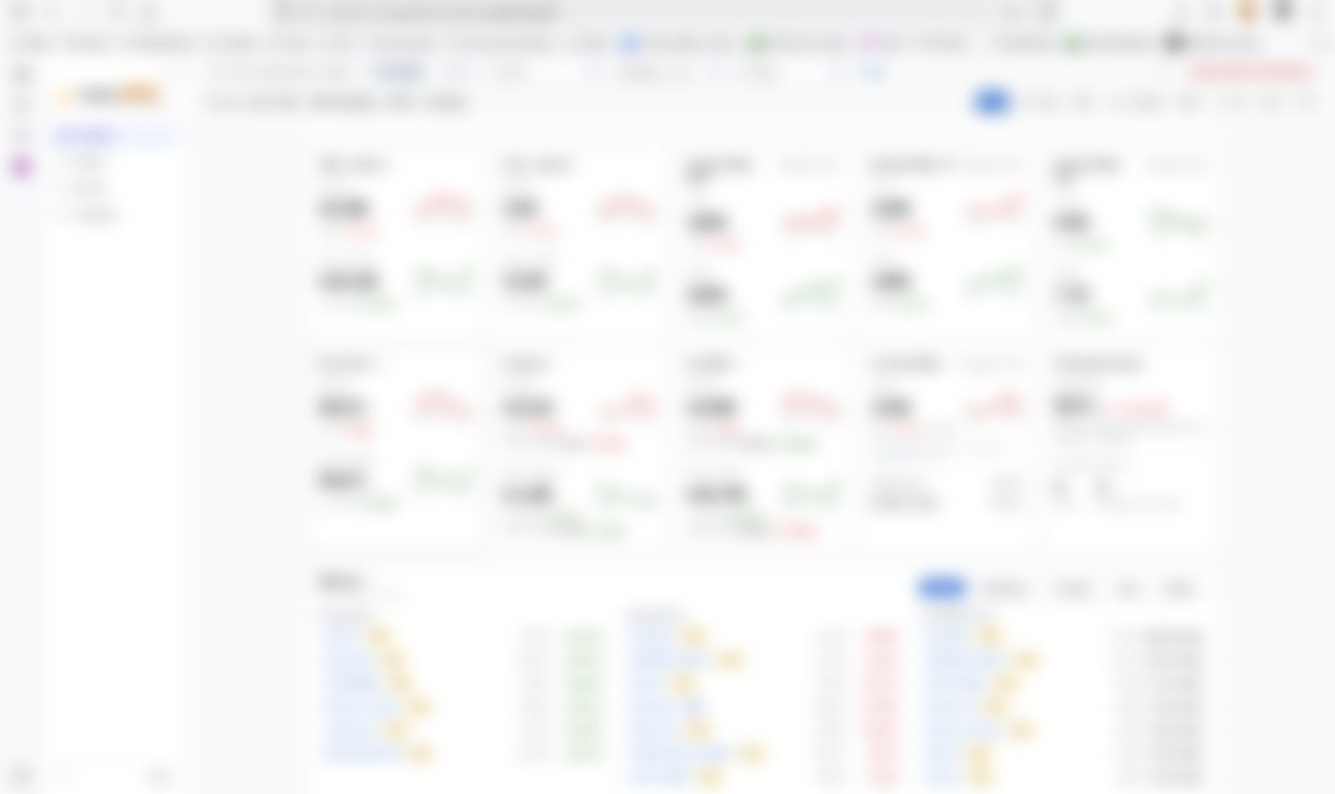
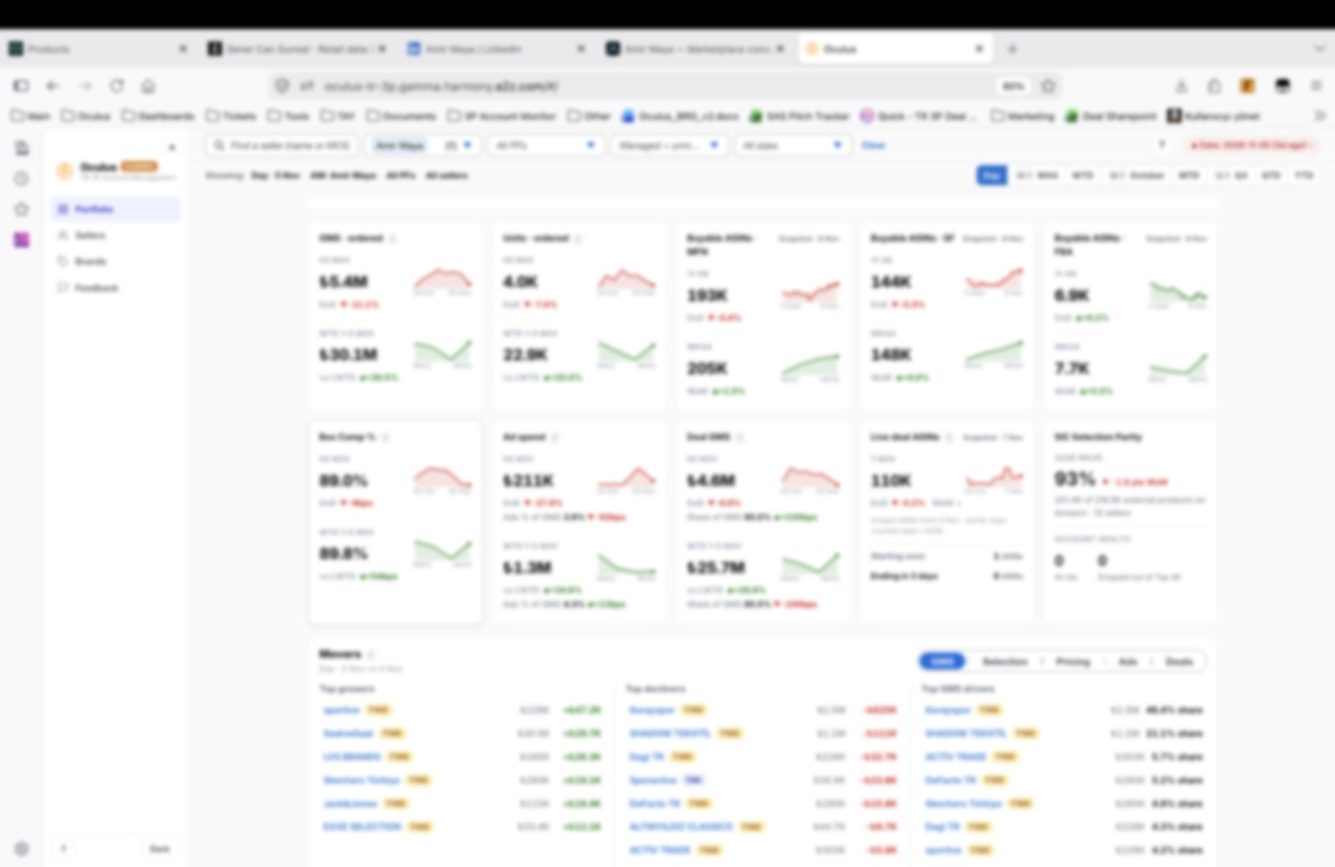
text pass per Amir (Amazon chapter, Günaydın, deleter, education, contact, Hype-Merch 80K, headlines); tool cards with bullets + lighter blur + real Oculus/Parity marks; TRNotify recentred; mobile: no label collisions, key list, compact HUD, smaller type

diff --git a/content.js b/content.js
@@ -2,11 +2,11 @@
 window.CONTENT = {
   en: {
     education: [
-      { id: "hisar", years: "2014", logo: "tiles/hisar.png", name: "Hisar School", kicker: "High school · Istanbul",
-        lead: "Turkish–Mathematics track. Where the habit of taking things apart started.",
+      { id: "hisar", years: "2011 – 2014", logo: "tiles/hisar.png", name: "Hisar School", kicker: "High school · Istanbul",
+        lead: "",
         body: [] },
       { id: "bilgi", years: "2014 – 2019", logo: "tiles/bilgi.png", name: "Istanbul Bilgi University", kicker: "B.A. Economics (English) · 50% ÖSYM scholarship",
-        lead: "Economics taught me to read incentives. The internships taught me how companies actually move goods and money.",
+        lead: "",
         body: [],
         internships: [
           { logo: "tiles/yunsa.png", name: "Yünsa", role: "Finance Intern", when: "Jan – Feb 2015", d: "Credit flows, invoice-to-receipt matching, daily industry monitoring." },
@@ -31,14 +31,14 @@ window.CONTENT = {
           skills: [["Account management", "Strategic accounts, joint business plans, QBRs, C-level relationships, negotiation"], ["Growth", "Selection, advertising, fulfilment, pricing and campaign levers; onboarding motion"], ["Product & tooling", "Dashboards, automation, AI assistants; from idea to adoption by the whole team"], ["Data", "SQL, Python, AWS; analytics that change what the team does on Monday"]],
           interests: ["Tech & digital ecosystems","Financial markets & crypto","Competitive team sports","Sneakers & streetwear"],
           glance: [["8 / 10","top Softlines sellers managed"],["70+","sellers managed so far"],["147K+","competitor sellers mapped"],["200M+ TRY","Hype-Merch GMV"]] },
-    headlines: ["There's always a better way to do things.", "Account manager at Amazon who also builds the tools his team uses.", "Built Hype Merch from zero: 200M+ TRY GMV, 40K+ sales, 55K users.", "Now at Amazon, growing strategic sellers in 3P Softlines.", "Product thinking, execution, and work that moves the needle."],
+    headlines: ["Marketplace Consultant at Amazon. Builder by habit.", "I grow sellers, and build the tools that make the team faster."],
     duty_facts: [["Now", "Strategic Account Services, Amazon Turkey 3P · Softlines"], ["Focus", "Strategic accounts · seller growth · internal tooling"], ["Speaks", "Turkish (native) · English (native) · Hebrew (intermediate) · Spanish (beginner)"], ["Base", "Istanbul"]],
-    ui: { story: "Story", facts: "Profile", role_short: "Marketplace Consultant · Amazon TR 3P", eyebrow: "My career, laid out as a route", cta_story: "Walk the route", cv: "Resume (PDF)", duty: "Right now", live: "Available",
+    ui: { story: "Story", facts: "Profile", role_short: "Marketplace Consultant · Amazon TR 3P", eyebrow: "00 · Start here", cta_story: "Walk the route", cv: "Resume (PDF)", duty: "Right now", live: "Available",
           route_eyebrow: "00 · Route", g_all: "Everything", g_l0: "Education", g_l1: "Career", g_l2: "Tools & products", g_l3: "Proof", g_verify: "Verify", g_read: "Read the chapter", g_hint: "Click a stop to open what came out of it.", g_desktop: "Desktop tools", g_bots: "Discord bots", door: "Visitor count", door_today: "today", door_now: "online now", door_avg: "avg. visit", door_note: "Anonymous · no cookies", s1_eyebrow: "01 · Story · Stop by stop", s1_title: "Stop by stop.", s1_intro: "Each stop is its own chapter: what I did there, what it taught me, and what I built because of it.",
           s3_eyebrow: "03 · Profile · Details", s3_title: "The details.", education: "Education", skills: "What I do", s2_eyebrow: "02 · Education", s4_eyebrow: "04 · Contact · Register", work: "Work", contact: "Contact", scroll: "Scroll", hover: "Hover a stop. Scroll to read it in order.",
           intro: "Twelve years, seven stops. Each one taught me the next.", role: "Seller growth · marketplace tooling",
           press: "In the press", awards: "Recognition", apps: "App Store", tools: "Built here", internships: "Internships along the way",
-          contact_title: "Open to good problems.", contact_sub: "Everything on this page is on the resume; everything on the resume has proof behind it.",
+          contact_title: "Open to solving good problems.", contact_sub: "Everything on this page is on the resume; everything on the resume has proof behind it.",
           email: "Email", linkedin: "LinkedIn", cv: "Resume (PDF)", footer: "Hand-built: HTML, CSS, JS. No frameworks. Istanbul.",
           blur_note: "Internal Amazon tooling — intentionally blurred.", langs: "Languages", certs: "Certificates · click to verify", interests: "Interests", facts: "Also", glance: "At a glance", chapter: "Chapter" },
     stops: [
@@ -65,41 +65,41 @@ window.CONTENT = {
                "It was the first time code paid rent. It also showed me the real gap: there was no proper place in Turkey to trade what these people were buying. TRNotify kept running next to the marketplace it spawned, until I left both for Amazon in 2024."] },
       { id: "hypemerch", years: "2020 – 2024", logo: "tiles/hypemerch.png", name: "Hype-Merch", kicker: "Co-founder · Product Owner · Turkey's first sneaker marketplace",
         lead: "A sneaker and streetwear marketplace, inspired by StockX and GOAT, built from zero to 200M+ TRY GMV, 40K+ sales and 55K users with three partners.",
-        stats: [["200M+ TRY", "GMV"], ["40K+", "sales"], ["55K", "users"], ["8,000+", "listings on launch day"], ["Top 100", "App Store Shopping"]],
-        body: ["The idea came straight out of TRNotify: the people buying through my monitors needed somewhere to sell, and I could be the middleman. Because the seller base already existed, the flywheel started on day one. The site launched with more than 8,000 listings.",
+        stats: [["200M+ TRY", "GMV"], ["40K+", "sales"], ["55K", "users"], ["8K → 80K+", "listings, launch to peak"], ["Top 100", "App Store Shopping"]],
+        body: ["The idea came straight out of TRNotify: the people buying through my monitors needed somewhere to sell, and I could be the middleman. Because the seller base already existed, the flywheel started on day one. The site launched with more than 8,000 listings and grew past 80,000.",
                "Over four years I touched every part of an e-commerce business, mostly for the first time: payment systems, seller disbursements, shipping operations, authenticity checks, UX and UI, the mobile app launch, budgeting, social media and advertising, legal, influencer campaigns. This is where I learned the fundamentals of e-commerce, by having to.",
-               "The mobile app launched on 10 September 2023 and held Top 100–200 in App Store Shopping through 2023–24. Looking back from inside Amazon, I keep finding systems I designed with zero prior knowledge that are close cousins of the ones Amazon runs at scale.",
+               "The mobile app launched on 10 September 2023 and held Top 100–200 in App Store Shopping through 2023–24. From inside Amazon today, I can see how many of the systems I designed back then, with no prior knowledge, closely resemble the ones Amazon runs at scale.",
                "By 2024 the global sneaker trend had cooled, the most coveted releases were saturated and the Turkish economy had shifted. I decided I wanted a place where I could learn from people better than me and widen the view. Working at one of the big technology companies had always been the goal. When I joined Amazon I handed Hype-Merch to my partners; it was closed later."],
         press: [
           { img: "press-vogue.jpg", outlet: "Vogue Türkiye", note: "Feature on the Hype-Merch team" },
           { img: "press-hurriyet.jpg", outlet: "Hürriyet", note: "Column" },
-          { img: "press-gazete2.jpg", outlet: "National press", note: "Lifestyle pages" }
+          { img: "press-gazete2.jpg", outlet: "Günaydın", note: "Newspaper feature" }
         ],
         apps: [
           { img: "appstore-165.jpg", note: "No. 165 · Shopping" },
           { img: "appstore-188.jpg", note: "No. 188 · Shopping" }
         ] },
       { id: "amazon", years: "2024 – now", logo: "tiles/amazon.png", name: "Amazon Turkey", kicker: "3P Marketplace · Softlines · Strategic Account Services",
-        lead: "Three roles in two years: Direct Seller Recruitment (2024) → Existing Seller Management, 70+ sellers (2025) → Strategic Account Services (2026). Today I manage the largest Softlines sellers in Turkey and build the tools the whole account-management team works with.",
+        lead: "Three roles and one promotion in two years: Direct Seller Recruitment (2024) → Existing Seller Management, 70+ sellers (2025) → Strategic Account Services (2026). Today I manage the largest Softlines sellers in Turkey and build the tools the account-management team works with.",
         stats: [["#1 / 17", "portfolio growth, AM team"], ["8 / 10", "largest Softlines GMS drivers"], ["70+", "sellers managed so far"], ["3", "top-10 sellers onboarded"], ["#1", "advertising spend, portfolio"]],
-        body: ["Account management is the core of the job and where I perform best: the strongest portfolio growth across a team of 17 account managers, promoted through three roles in two years, and trusted with most of the category's largest sellers. When a tenured strategic account manager left in early 2026 with no replacement, I took over the most critical accounts while keeping my own, because those sellers could not afford a gap.",
-               "The growth itself came from a few repeatable moves: moving large retailers with their own warehouses onto Amazon-fulfilled programs, onboarding some of the country's biggest fashion retailers end to end, closing selection gaps and running deal strategy. In the first half of 2026 my portfolio ranked first in Softlines in two of the three fulfilled-selection growth categories.",
+        body: ["Account management is the core of the job and where I perform best: the strongest portfolio growth across a team of 17 account managers, one promotion and three roles in two years, and most of the category's largest sellers in my portfolio.",
+               "The growth comes from understanding how the marketplace flywheel works and which levers move it for each seller: fulfilment programs for large retailers with their own warehouses, selection, deals, advertising. Then reading what the customer actually needs, applying the playbook to it, and following up until the number moves. Some of the country's biggest fashion retailers were onboarded end to end this way; in the first half of 2026 the portfolio ranked first in Softlines in two of the three fulfilled-selection growth categories.",
                "Recognised with an Amazon Leadership Principles award (Invent & Simplify) for a tool that corrected how the category measured its selection gap against competitor marketplaces: the gap had been overestimated by about a third, and targets were being set on the wrong number.",
-               "The second half of the job is building. Every tool below exists because I needed it for my own sellers first and then handed it to the team."],
+               "The second half of the job is building. Every one of the tools below started as something I needed for my own sellers, then became the team's."],
         awards: [
           { img: "award-2.jpg", note: "Leadership Principles award — Invent & Simplify" },
           { img: "award-1.jpg", note: "LP award ceremony" }
         ],
         tools: [
-          { img: "oculus-blur.jpg", blur: true, icon: "tiles/oculus.png", name: "Oculus", d: "The metrics cockpit for Turkey 3P account management, built end to end. Every morning a Step Functions pipeline pulls 20+ sources (Redshift and Datanet feeds, Athena over the data lake), Fargate workers compute every managed seller's focus metrics (GMS, traffic, selection, pricing, advertising, deals, account health, listing quality, returns), an action engine turns metric gaps into prioritised to-dos, and a publish step writes Parquet and JSON to S3. A Lambda API behind API Gateway serves a React/Cloudscape dashboard: portfolio, Seller 360, timelines, deals, team view, feedback. DynamoDB holds actions, deals, profiles and chat sessions; a Bedrock assistant answers 'why did this move' over the same data. Adopted by the whole account-management organisation, it replaced the first hour of every AM's day across five tools and a weekly deck. Now being extended with Product into Oculus Proactive: a scoring engine that orders each AM's day by weighted gap-to-target and tracks every committed action to closure.", stack: ["Step Functions", "Fargate", "Lambda", "API Gateway", "DynamoDB", "S3 · Parquet", "Athena", "Redshift", "Bedrock", "React · Cloudscape"] },
-          { img: "parity-blur.jpg", blur: true, icon: "tiles/parity.png", name: "Selection Parity", d: "Weekly engine measuring how much of a strategic seller's catalogue on competitor marketplaces is live on Amazon, size-level, without opening a single product page (facet-based counting, validated within 0.1% of a full crawl). A Graviton EC2 crawler, managed over SSM at a fixed polite rate with checkpoints and resume, starts when the week's roster lands in S3 through a Lambda ingest trigger; Amazon-side buyable selection comes from Athena; publish writes a versioned JSON API to S3, served by Lambda + HTTP API behind a read key. A Cloudscape dashboard shows parity, gap and brand coverage per seller with history, and a Slack bot alerts account managers and category heads on movements: growth, drops below threshold, recoveries, weekly digests. Its data also feeds the category's weekly business review.", stack: ["EC2 Graviton", "SSM", "Lambda", "HTTP API", "S3", "Athena", "Slack API", "Cloudscape"] },
+          { img: "oculus-blur.jpg", blur: true, icon: "tiles/oculus.png", name: "Oculus", d: "The metrics cockpit for Turkey 3P account management, built end to end and adopted by the whole organisation.", bul: ["Every morning a Step Functions pipeline pulls 20+ sources (Redshift and Datanet feeds, Athena over the data lake); Fargate workers compute each managed seller's focus metrics: GMS, traffic, selection, pricing, advertising, deals, account health, listing quality, returns.", "An action engine turns metric gaps into prioritised to-dos; publish writes Parquet and JSON to S3; a Lambda API behind API Gateway serves the React/Cloudscape dashboard: portfolio, Seller 360, timelines, deals, team view, feedback.", "DynamoDB holds actions, deals, profiles and chat sessions; a Bedrock assistant answers 'why did this move' over the same data.", "Replaced the first hour of every account manager's day across five tools and a weekly deck. Now growing with Product into Oculus Proactive: a scoring engine that orders each AM's day by weighted gap-to-target and tracks every commitment to closure."], stack: ["Step Functions", "Fargate", "Lambda", "API Gateway", "DynamoDB", "S3 · Parquet", "Athena", "Redshift", "Bedrock", "React · Cloudscape"] },
+          { img: "parity-blur.jpg", blur: true, icon: "tiles/parity.png", name: "Selection Parity", d: "Weekly engine measuring how much of a strategic seller's catalogue on competitor marketplaces is live on Amazon, size by size.", bul: ["Facet-based counting, so no product page is ever opened; validated within 0.1% of a full crawl.", "A Graviton EC2 crawler, managed over SSM at a fixed polite rate with checkpoints and resume, starts when the week's roster lands in S3 through a Lambda ingest trigger; Amazon-side buyable selection comes from Athena.", "Publish writes a versioned JSON API to S3, served by Lambda + HTTP API behind a read key; a Cloudscape dashboard shows parity, gap and brand coverage per seller with history.", "A Slack bot alerts account managers and category heads on movements: growth, drops below threshold, recoveries, weekly digests. The data also feeds the category's weekly business review."], stack: ["EC2 Graviton", "SSM", "Lambda", "HTTP API", "S3", "Athena", "Slack API", "Cloudscape"] },
         ],
         small_title: "Small tools",
         small_sub: "Desktop utilities shipped to the team as one-file apps (Windows + macOS). Each one replaced hours of manual Seller Central work.",
         small: [
           { n: "Marketplace Sweep", d: "Maps an entire competitor marketplace: 147K+ sellers, 30+ attributes each (company, catalogue size, brands, rating). Became the standard method of two internal analytics teams.", t: "Python · curl_cffi" },
           { n: "Selection Scraper", d: "Pulls a competitor store's full catalogue, size-level, into Excel in minutes. Handles result-window limits and throttling by itself.", t: "Python · Playwright" },
-          { n: "Incomplete Listings Deleter", d: "Bulk-removes a seller's incomplete drafts through Seller Central's own GraphQL layer. 12,008 drafts in one run, zero errors.", t: "PyQt6 · Selenium" },
+          { n: "Incomplete Listings Deleter", d: "Bulk-removes a seller's incomplete drafts through Seller Central's own GraphQL layer. Thousands of drafts in seconds; hours of manual work gone.", t: "PyQt6 · Selenium" },
           { n: "ASIN Image URL Extractor", d: "Takes a list of ASINs and returns every main-image URL, ready for catalogue audits.", t: "Python" },
           { n: "Image Downloader", d: "Downloads and packages product images per ASIN for bulk image-quality fixes.", t: "Python" }
         ] }
@@ -107,10 +107,10 @@ window.CONTENT = {
   },
   tr: {
     education: [
-      { id: "hisar", years: "2014", logo: "tiles/hisar.png", name: "Hisar Okulları", kicker: "Lise · İstanbul",
-        lead: "Türkçe–Matematik. Bir şeyleri söküp bakma alışkanlığının başladığı yer.", body: [] },
+      { id: "hisar", years: "2011 – 2014", logo: "tiles/hisar.png", name: "Hisar Okulları", kicker: "Lise · İstanbul",
+        lead: "", body: [] },
       { id: "bilgi", years: "2014 – 2019", logo: "tiles/bilgi.png", name: "İstanbul Bilgi Üniversitesi", kicker: "Ekonomi (İngilizce) · %50 ÖSYM bursu",
-        lead: "Ekonomi teşvikleri okumayı öğretti. Stajlar, şirketlerin malı ve parayı gerçekte nasıl hareket ettirdiğini.",
+        lead: "",
         body: [],
         internships: [
           { logo: "tiles/yunsa.png", name: "Yünsa", role: "Finans Stajyeri", when: "Oca – Şub 2015", d: "Kredi akışları, fatura–irsaliye eşleştirme, günlük sektör takibi." },
@@ -135,9 +135,9 @@ window.CONTENT = {
           skills: [["Hesap yönetimi", "Stratejik hesaplar, ortak iş planları, QBR, C-level ilişkiler, müzakere"], ["Büyüme", "Seçki, reklam, lojistik, fiyatlama ve kampanya kaldıraçları; onboarding"], ["Ürün & araçlar", "Paneller, otomasyon, AI asistanlar; fikirden tüm ekibin benimsemesine"], ["Veri", "SQL, Python, AWS; ekibin pazartesi ne yapacağını değiştiren analitik"]],
           interests: ["Teknoloji & dijital ekosistemler","Finansal piyasalar & kripto","Takım sporları","Sneaker & streetwear"],
           glance: [["8 / 10","yönetilen en büyük Softlines satıcısı"],["70+","bugüne kadar yönetilen satıcı"],["147K+","haritalanan rakip satıcı"],["200M+ TL","Hype-Merch GMV"]] },
-    headlines: ["Her işin daha iyi bir yolu vardır.", "Amazon'da hesap yöneticisi; ekibinin kullandığı araçları da kuran.", "Hype Merch'i sıfırdan kurdum: 200M+ TL GMV, 40K+ satış, 55K kullanıcı.", "Şimdi Amazon'da, 3P Softlines'ta stratejik satıcıları büyütüyorum.", "Ürün düşüncesi, icraat ve gerçekten fark yaratan işler."],
+    headlines: ["Amazon'da Marketplace Consultant. Alışkanlıktan kurucu.", "Satıcıları büyütüyor, ekibi hızlandıran araçları kuruyorum."],
     duty_facts: [["Şimdi", "Strategic Account Services, Amazon Türkiye 3P · Softlines"], ["Odak", "Stratejik hesaplar · satıcı büyümesi · dahili araçlar"], ["Diller", "Türkçe (ana dil) · İngilizce (ana dil) · İbranice (orta) · İspanyolca (başlangıç)"], ["Üs", "İstanbul"]],
-    ui: { story: "Hikâye", facts: "Profil", role_short: "Marketplace Consultant · Amazon TR 3P", eyebrow: "Kariyerim, bir rota olarak", cta_story: "Rotayı yürü", cv: "Özgeçmiş (PDF)", duty: "Şu an", live: "Müsait",
+    ui: { story: "Hikâye", facts: "Profil", role_short: "Marketplace Consultant · Amazon TR 3P", eyebrow: "00 · Buradan başla", cta_story: "Rotayı yürü", cv: "Özgeçmiş (PDF)", duty: "Şu an", live: "Müsait",
           route_eyebrow: "00 · Rota", g_all: "Hepsi", g_l0: "Eğitim", g_l1: "Kariyer", g_l2: "Araçlar & ürünler", g_l3: "Kanıt", g_verify: "Doğrula", g_read: "Bölümü oku", g_hint: "Bir durağa tıkla; oradan çıkanlar açılır.", g_desktop: "Masaüstü araçlar", g_bots: "Discord botları", door: "Ziyaretçi sayısı", door_today: "bugün", door_now: "şu an online", door_avg: "ort. ziyaret", door_note: "Anonim · çerez yok", s1_eyebrow: "01 · Hikâye · Durak durak", s1_title: "Durak durak.", s1_intro: "Her durak kendi bölümü: orada ne yaptım, bana ne öğretti, bu yüzden ne kurdum.",
           s3_eyebrow: "03 · Profil · Detaylar", s3_title: "Detaylar.", education: "Eğitim", skills: "Ne yaparım", s2_eyebrow: "02 · Eğitim", s4_eyebrow: "04 · İletişim · Kasa", work: "İşler", contact: "İletişim", scroll: "Kaydır", hover: "Bir durağın üzerine gel. Sırayla okumak için kaydır.",
           intro: "On iki yıl, yedi durak. Her biri bir sonrakini öğretti.", role: "Satıcı büyümesi · marketplace araçları",
@@ -169,41 +169,41 @@ window.CONTENT = {
                "Kodun ilk kez kira ödediği an. Asıl boşluğu da gösterdi: bu insanların aldığı şeyleri alıp satacağı düzgün bir yer Türkiye'de yoktu. TRNotify, doğurduğu pazaryerinin yanında çalışmaya devam etti; 2024'te ikisini de Amazon için bıraktım."] },
       { id: "hypemerch", years: "2020 – 2024", logo: "tiles/hypemerch.png", name: "Hype-Merch", kicker: "Kurucu ortak · Product Owner · Türkiye'nin ilk sneaker pazaryeri",
         lead: "StockX ve GOAT'tan esinlenen bir sneaker ve streetwear pazaryeri; üç ortakla sıfırdan 200M+ TL GMV, 40K+ satış ve 55K kullanıcıya.",
-        stats: [["200M+ TL", "GMV"], ["40K+", "satış"], ["55K", "kullanıcı"], ["8.000+", "lansman günü ilan"], ["Top 100", "App Store Alışveriş"]],
-        body: ["Fikir doğrudan TRNotify'dan çıktı: monitörlerim üzerinden alan insanların satacak bir yere ihtiyacı vardı ve aracı ben olabilirdim. Satıcı tabanı hazır olduğu için çark ilk günden döndü. Site 8.000'den fazla ilanla açıldı.",
+        stats: [["200M+ TL", "GMV"], ["40K+", "satış"], ["55K", "kullanıcı"], ["8K → 80K+", "ilan, lansmandan zirveye"], ["Top 100", "App Store Alışveriş"]],
+        body: ["Fikir doğrudan TRNotify'dan çıktı: monitörlerim üzerinden alan insanların satacak bir yere ihtiyacı vardı ve aracı ben olabilirdim. Satıcı tabanı hazır olduğu için çark ilk günden döndü. Site 8.000'den fazla ilanla açıldı ve 80.000'i aştı.",
                "Dört yılda bir e-ticaret işinin her parçasına, çoğuna ilk kez dokundum: ödeme sistemleri, satıcı ödemeleri, kargo operasyonu, orijinallik kontrolleri, UX ve UI, mobil uygulama lansmanı, bütçe, sosyal medya ve reklam, hukuk, influencer kampanyaları. E-ticaretin temellerini mecbur kalarak burada öğrendim.",
-               "Mobil uygulama 10 Eylül 2023'te çıktı ve 2023–24 boyunca App Store Alışveriş'te ilk 100–200'de kaldı. Bugün Amazon'un içinden geriye baktığımda, sıfır bilgiyle tasarladığım sistemlerin Amazon'un ölçekte çalıştırdıklarının yakın akrabası olduğunu görüyorum.",
+               "Mobil uygulama 10 Eylül 2023'te çıktı ve 2023–24 boyunca App Store Alışveriş'te ilk 100–200'de kaldı. Bugün Amazon'un içinden bakınca, o zaman hiçbir ön bilgi olmadan tasarladığım sistemlerin çoğunun Amazon'un ölçekte çalıştırdıklarına ne kadar benzediğini görüyorum.",
                "2024'e gelindiğinde küresel sneaker trendi soğumuş, en çok aranan ürünler doygunluğa ulaşmış, Türkiye ekonomisi değişmişti. Benden iyi insanlardan öğrenebileceğim ve bakışımı genişletebileceğim bir yere gitmeye karar verdim. Büyük teknoloji şirketlerinden birinde çalışmak hep hedefti. Amazon'a geçerken Hype-Merch'i ortaklarıma bıraktım; daha sonra kapatıldı."],
         press: [
           { img: "press-vogue.jpg", outlet: "Vogue Türkiye", note: "Hype-Merch ekibi üzerine haber" },
           { img: "press-hurriyet.jpg", outlet: "Hürriyet", note: "Köşe yazısı" },
-          { img: "press-gazete2.jpg", outlet: "Ulusal basın", note: "Yaşam sayfaları" }
+          { img: "press-gazete2.jpg", outlet: "Günaydın", note: "Gazete haberi" }
         ],
         apps: [
           { img: "appstore-165.jpg", note: "165. · Alışveriş" },
           { img: "appstore-188.jpg", note: "188. · Alışveriş" }
         ] },
       { id: "amazon", years: "2024 – bugün", logo: "tiles/amazon.png", name: "Amazon Türkiye", kicker: "3P Pazaryeri · Softlines · Stratejik Hesap Hizmetleri",
-        lead: "İki yılda üç rol: Doğrudan Satıcı Kazanımı (2024) → Mevcut Satıcı Yönetimi, 70+ satıcı (2025) → Stratejik Hesap Hizmetleri (2026). Bugün Türkiye'nin en büyük Softlines satıcılarını yönetiyor ve tüm hesap yönetimi ekibinin kullandığı araçları kuruyorum.",
+        lead: "İki yılda üç rol ve bir terfi: Doğrudan Satıcı Kazanımı (2024) → Mevcut Satıcı Yönetimi, 70+ satıcı (2025) → Stratejik Hesap Hizmetleri (2026). Bugün Türkiye'nin en büyük Softlines satıcılarını yönetiyor ve hesap yönetimi ekibinin kullandığı araçları kuruyorum.",
         stats: [["#1 / 17", "portföy büyümesi, AM ekibi"], ["8 / 10", "en büyük Softlines GMS satıcısı"], ["70+", "bugüne kadar yönetilen satıcı"], ["3", "onboard edilen top-10 satıcı"], ["#1", "reklam harcaması, portföy"]],
-        body: ["Hesap yönetimi işin özü ve en iyi olduğum yer: 17 kişilik hesap yöneticisi ekibinde en güçlü portföy büyümesi, iki yılda üç rol, kategorinin en büyük satıcılarının çoğu bana emanet. 2026 başında kıdemli bir stratejik hesap yöneticisi yerine kimse gelmeden ayrılınca, kendi hesaplarımı bırakmadan en kritik hesapları devraldım; o satıcılar boşluk kaldıramazdı.",
-               "Büyüme birkaç tekrarlanabilir hamleden geldi: kendi deposu olan büyük perakendecileri Amazon'un gönderim programlarına taşımak, ülkenin en büyük moda perakendecilerinden bazılarını uçtan uca açmak, seçki açıklarını kapatmak ve fırsat stratejisini yürütmek. 2026'nın ilk yarısında portföyüm üç gönderimli-seçki büyüme kategorisinin ikisinde Softlines'ta birinci oldu.",
+        body: ["Hesap yönetimi işin özü ve en iyi olduğum yer: 17 kişilik hesap yöneticisi ekibinde en güçlü portföy büyümesi, iki yılda bir terfi ve üç rol, kategorinin en büyük satıcılarının çoğu portföyümde.",
+               "Büyüme, pazaryeri çarkının nasıl döndüğünü ve her satıcı için hangi kolun onu hareket ettirdiğini anlamaktan geliyor: kendi deposu olan büyük perakendeciler için gönderim programları, seçki, fırsatlar, reklam. Sonra müşterinin gerçekten neye ihtiyacı olduğunu okumak, playbook'u ona uygulamak ve sayı hareket edene kadar takip etmek. Ülkenin en büyük moda perakendecilerinden bazıları bu şekilde uçtan uca açıldı; 2026'nın ilk yarısında portföy üç gönderimli-seçki büyüme kategorisinin ikisinde Softlines'ta birinci oldu.",
                "Kategorinin rakip pazaryerlerine karşı seçki açığını ölçme biçimini düzelten bir araç için Amazon Liderlik İlkeleri ödülü (Invent & Simplify) aldım: açık yaklaşık üçte bir fazla hesaplanıyordu ve hedefler yanlış sayıya göre konuyordu.",
-               "İşin ikinci yarısı kurmak. Aşağıdaki her araç önce kendi satıcılarım için gerekli olduğu için var, sonra ekibe verildi."],
+               "İşin ikinci yarısı kurmak. Aşağıdaki araçların her biri önce kendi satıcılarım için ihtiyaç duyduğum bir şey olarak başladı, sonra ekibin oldu."],
         awards: [
           { img: "award-2.jpg", note: "Liderlik İlkeleri ödülü — Invent & Simplify" },
           { img: "award-1.jpg", note: "LP ödül töreni" }
         ],
         tools: [
-          { img: "oculus-blur.jpg", blur: true, icon: "tiles/oculus.png", name: "Oculus", d: "Türkiye 3P hesap yönetiminin metrik kokpiti, uçtan uca kuruldu. Her sabah bir Step Functions hattı 20+ kaynağı çeker (Redshift ve Datanet beslemeleri, veri gölü üzerinde Athena), Fargate işçileri her yönetilen satıcının odak metriklerini hesaplar (GMS, trafik, seçki, fiyat, reklam, fırsatlar, hesap sağlığı, listeleme kalitesi, iadeler), bir aksiyon motoru metrik açıklarını önceliklendirilmiş işlere çevirir, publish adımı S3'e Parquet ve JSON yazar. API Gateway arkasındaki Lambda API bir React/Cloudscape paneli besler: portföy, Satıcı 360, zaman çizelgeleri, fırsatlar, ekip görünümü, geri bildirim. DynamoDB aksiyonları, fırsatları, profilleri ve sohbet oturumlarını tutar; bir Bedrock asistanı aynı veri üzerinde 'bu neden hareket etti' sorusunu yanıtlar. Tüm hesap yönetimi organizasyonu tarafından benimsendi; her AM'in gününün beş araca ve haftalık desteye giden ilk saatinin yerini aldı. Şimdi Ürün ekibiyle Oculus Proactive'e genişliyor: her AM'in gününü ağırlıklı hedef-açığına göre sıralayan ve verilen her sözü kapanışa kadar izleyen bir puanlama motoru.", stack: ["Step Functions", "Fargate", "Lambda", "API Gateway", "DynamoDB", "S3 · Parquet", "Athena", "Redshift", "Bedrock", "React · Cloudscape"] },
-          { img: "parity-blur.jpg", blur: true, icon: "tiles/parity.png", name: "Selection Parity", d: "Stratejik bir satıcının rakip pazaryerlerindeki kataloğunun ne kadarının Amazon'da canlı olduğunu beden seviyesinde, tek bir ürün sayfası açmadan ölçen haftalık motor (facet bazlı sayım, tam taramaya göre %0,1 içinde doğrulandı). SSM üzerinden yönetilen, sabit nazik hızda, checkpoint ve devam destekli bir Graviton EC2 tarayıcı, haftanın listesi bir Lambda tetikleyicisiyle S3'e düştüğünde başlar; Amazon tarafındaki satılabilir seçki Athena'dan gelir; publish S3'e sürümlü bir JSON API yazar, Lambda + HTTP API okuma anahtarı arkasında sunar. Cloudscape panel satıcı başına parite, açık ve marka kapsamasını geçmişiyle gösterir; bir Slack botu hareketlerde hesap yöneticilerini ve kategori liderlerini uyarır: büyüme, eşik altına düşüş, toparlanma, haftalık özet. Verisi kategorinin haftalık iş incelemesini de besliyor.", stack: ["EC2 Graviton", "SSM", "Lambda", "HTTP API", "S3", "Athena", "Slack API", "Cloudscape"] },
+          { img: "oculus-blur.jpg", blur: true, icon: "tiles/oculus.png", name: "Oculus", d: "Türkiye 3P hesap yönetiminin metrik kokpiti; uçtan uca kuruldu, tüm organizasyon tarafından benimsendi.", bul: ["Her sabah bir Step Functions hattı 20+ kaynağı çeker (Redshift ve Datanet beslemeleri, veri gölü üzerinde Athena); Fargate işçileri her yönetilen satıcının odak metriklerini hesaplar: GMS, trafik, seçki, fiyat, reklam, fırsatlar, hesap sağlığı, listeleme kalitesi, iadeler.", "Aksiyon motoru metrik açıklarını önceliklendirilmiş işlere çevirir; publish S3'e Parquet ve JSON yazar; API Gateway arkasındaki Lambda API React/Cloudscape paneli besler: portföy, Satıcı 360, zaman çizelgeleri, fırsatlar, ekip görünümü, geri bildirim.", "DynamoDB aksiyonları, fırsatları, profilleri ve sohbet oturumlarını tutar; Bedrock asistanı aynı veri üzerinde 'bu neden hareket etti' sorusunu yanıtlar.", "Her hesap yöneticisinin gününün beş araca ve haftalık desteye giden ilk saatinin yerini aldı. Şimdi Ürün ekibiyle Oculus Proactive'e büyüyor: her AM'in gününü ağırlıklı hedef-açığına göre sıralayan ve her sözü kapanışa kadar izleyen bir puanlama motoru."], stack: ["Step Functions", "Fargate", "Lambda", "API Gateway", "DynamoDB", "S3 · Parquet", "Athena", "Redshift", "Bedrock", "React · Cloudscape"] },
+          { img: "parity-blur.jpg", blur: true, icon: "tiles/parity.png", name: "Selection Parity", d: "Stratejik bir satıcının rakip pazaryerlerindeki kataloğunun ne kadarının Amazon'da canlı olduğunu beden beden ölçen haftalık motor.", bul: ["Facet bazlı sayım; hiçbir ürün sayfası açılmaz; tam taramaya göre %0,1 içinde doğrulandı.", "SSM üzerinden yönetilen, sabit nazik hızda, checkpoint ve devam destekli Graviton EC2 tarayıcı, haftanın listesi Lambda tetikleyicisiyle S3'e düştüğünde başlar; Amazon tarafındaki satılabilir seçki Athena'dan gelir.", "Publish S3'e sürümlü JSON API yazar, Lambda + HTTP API okuma anahtarı arkasında sunar; Cloudscape panel satıcı başına parite, açık ve marka kapsamasını geçmişiyle gösterir.", "Slack botu hareketlerde hesap yöneticilerini ve kategori liderlerini uyarır: büyüme, eşik altına düşüş, toparlanma, haftalık özet. Veri kategorinin haftalık iş incelemesini de besler."], stack: ["EC2 Graviton", "SSM", "Lambda", "HTTP API", "S3", "Athena", "Slack API", "Cloudscape"] },
         ],
         small_title: "Küçük araçlar",
         small_sub: "Ekibe tek dosyalık uygulama olarak dağıtılan masaüstü araçları (Windows + macOS). Her biri saatlerce süren elle Seller Central işinin yerini aldı.",
         small: [
           { n: "Marketplace Sweep", d: "Bir rakip pazaryerinin tamamını haritalar: 147K+ satıcı, her biri 30+ öznitelik (şirket, katalog boyutu, markalar, puan). İki iç analitik ekibinin standart yöntemi oldu.", t: "Python · curl_cffi" },
           { n: "Selection Scraper", d: "Bir rakip mağazanın tüm kataloğunu beden seviyesinde dakikalar içinde Excel'e çeker. Sonuç penceresi sınırlarını ve hız kısıtlarını kendi yönetir.", t: "Python · Playwright" },
-          { n: "Incomplete Listings Deleter", d: "Bir satıcının eksik taslaklarını Seller Central'ın kendi GraphQL katmanı üzerinden toplu siler. Tek koşuda 12.008 taslak, sıfır hata.", t: "PyQt6 · Selenium" },
+          { n: "Incomplete Listings Deleter", d: "Bir satıcının eksik taslaklarını Seller Central'ın kendi GraphQL katmanı üzerinden toplu siler. Binlerce taslak saniyeler içinde; saatlerce elle iş ortadan kalktı.", t: "PyQt6 · Selenium" },
           { n: "ASIN Image URL Extractor", d: "ASIN listesi alır, her ana görsel URL'sini döndürür; katalog denetimlerine hazır.", t: "Python" },
           { n: "Image Downloader", d: "Toplu görsel kalitesi düzeltmeleri için ürün görsellerini ASIN başına indirir ve paketler.", t: "Python" }
         ] }

diff --git a/index.html b/index.html
@@ -2,7 +2,7 @@
 <html lang="en" data-theme="dark"><head><meta charset="utf-8"><meta name="viewport" content="width=device-width,initial-scale=1"><title>Amir Maya — account manager · builder</title>
 <meta name="description" content="Amir Maya — account manager at Amazon Turkey who also builds the tools his team uses. Co-founder of Hype Merch, founder of TRNotify."><meta property="og:title" content="Amir Maya"><meta property="og:description" content="Account manager at Amazon who also builds the tools his team uses. Co-founder of Hype Merch."><meta property="og:image" content="https://amirmaya.com/assets/og.png"><meta property="og:url" content="https://amirmaya.com"><meta name="twitter:card" content="summary_large_image"><meta name="theme-color" content="#07090f"><link rel="icon" href="assets/favicon.png">
 <link href="https://fonts.googleapis.com/css2?family=Archivo:wght@500;600;700;800&family=IBM+Plex+Mono:wght@400;500&display=swap" rel="stylesheet">
-<link rel="stylesheet" href="styles.css?v=202611092354"><link rel="stylesheet" href="v3.css?v=202611092354">
+<link rel="stylesheet" href="styles.css?v=202611100018"><link rel="stylesheet" href="v3.css?v=202611100018">
 </head><body>
 <a class="skip" href="#story">Skip to content</a>
 <div class="progress" id="progress"></div>
@@ -28,7 +28,7 @@
       </aside>
     </section>
     <section class="brain" id="brain"><canvas id="cv"></canvas><div id="neurons"></div><div id="sats"></div><div class="holo" id="holo"></div><div class="hud" id="door" data-ui-title="door_note"><span class="live"><i></i><span data-ui="door"></span></span><span class="dstat"><b class="mono" data-k="today">0</b><span data-ui="door_today"></span></span><span class="dstat"><b class="mono" data-k="online">1</b><span data-ui="door_now"></span></span><span class="dstat"><b class="mono" data-k="avg">—</b><span data-ui="door_avg"></span></span></div><div class="tip" id="tip"><span class="eyebrow" id="tipK"></span><span id="tipT"></span></div>
-      <div class="legend"><span class="eyebrow dim" data-v3="v3_hint"></span></div></section>
+      <div class="legend"><span class="eyebrow dim" data-v3="v3_hint"></span></div><div class="mkey" id="mkey"></div></section>
   </div>
 </section>
 
@@ -51,5 +51,5 @@
 <footer class="site-footer"><div class="wrap"><span data-ui="footer"></span><span class="mono">© <span id="year"></span> amirmaya.com</span></div></footer>
 </main>
 
-<script src="content.js?v=202611092354"></script><script src="brain.js?v=202611092354"></script><script src="v3.js?v=202611092354"></script><script src="spine.js?v=202611092148"></script><script src="gallery.js?v=202611092148"></script><script src="probe.js?v=202611092148"></script><script src="counter.js?v=202611092354" defer></script>
+<script src="content.js?v=202611100018"></script><script src="brain.js?v=202611100018"></script><script src="v3.js?v=202611100018"></script><script src="spine.js?v=202611092148"></script><script src="gallery.js?v=202611092148"></script><script src="probe.js?v=202611092148"></script><script src="counter.js?v=202611100018" defer></script>
 </body></html>

diff --git a/v3.js b/v3.js
@@ -88,7 +88,7 @@
           ${s.press ? `<p class="eyebrow sub-h reveal">${esc(ui.press)}</p><div class="press">${s.press.map(p => fig(p.img, p.outlet, p.note)).join("")}</div>` : ""}
           ${s.apps ? `<p class="eyebrow sub-h reveal">${esc(ui.apps)}</p><div class="apps">${s.apps.map(a => fig(a.img, "App Store", a.note)).join("")}</div>` : ""}
           ${s.awards ? `<p class="eyebrow sub-h reveal">${esc(ui.awards)}</p><div class="awards">${s.awards.map(a => fig(a.img, "Amazon", a.note)).join("")}</div>` : ""}
-          ${s.tools ? `<p class="eyebrow sub-h reveal">${esc(ui.tools)}</p><div class="tools-grid">${s.tools.map(t => `<div class="tool card"><div class="shot">${t.icon ? `<img class="ticon" src="assets/logos/${t.icon}" alt="">` : ""}<img src="assets/img/${t.img}" alt="" loading="lazy"><span class="lock">${esc(ui.blur_note)}</span></div><div class="txt"><h4>${esc(t.name)}</h4><p>${esc(t.d)}</p>${t.stack ? `<ul class="chips tstack">${t.stack.map(x => `<li>${esc(x)}</li>`).join("")}</ul>` : ""}</div></div>`).join("")}</div>` : ""}
+          ${s.tools ? `<p class="eyebrow sub-h reveal">${esc(ui.tools)}</p><div class="tools-grid">${s.tools.map(t => `<div class="tool card"><div class="shot">${t.icon ? `<img class="ticon" src="assets/logos/${t.icon}" alt="">` : ""}<img src="assets/img/${t.img}" alt="" loading="lazy"><span class="lock">${esc(ui.blur_note)}</span></div><div class="txt"><h4>${esc(t.name)}</h4><p>${esc(t.d)}</p>${t.bul ? `<ul class="plain tbul">${t.bul.map(x => `<li>${esc(x)}</li>`).join("")}</ul>` : ""}${t.stack ? `<ul class="chips tstack">${t.stack.map(x => `<li>${esc(x)}</li>`).join("")}</ul>` : ""}</div></div>`).join("")}</div>` : ""}
           ${s.small ? `<p class="eyebrow sub-h reveal">${esc(s.small_title)}</p><p class="small-sub reveal">${esc(s.small_sub)}</p><div class="smalls">${s.small.map(t => `<div class="small card"><div class="row"><b>${esc(t.n)}</b><span class="mono">${esc(t.t)}</span></div><p>${esc(t.d)}</p></div>`).join("")}</div>` : ""}
         </div>
       </article>`).join("");

diff --git a/v3.html b/v3.html
@@ -2,7 +2,7 @@
 <html lang="en" data-theme="dark"><head><meta charset="utf-8"><meta name="viewport" content="width=device-width,initial-scale=1"><meta http-equiv="refresh" content="0; url=/"><title>Amir Maya</title>
 <meta name="description" content="Amir Maya — account manager at Amazon Turkey who also builds the tools his team uses. Co-founder of Hype Merch, founder of TRNotify."><meta property="og:title" content="Amir Maya"><meta property="og:description" content="Account manager at Amazon who also builds the tools his team uses. Co-founder of Hype Merch."><meta property="og:image" content="https://amirmaya.com/assets/og.png"><meta property="og:url" content="https://amirmaya.com"><meta name="twitter:card" content="summary_large_image"><meta name="theme-color" content="#07090f"><link rel="icon" href="assets/favicon.png">
 <link href="https://fonts.googleapis.com/css2?family=Archivo:wght@500;600;700;800&family=IBM+Plex+Mono:wght@400;500&display=swap" rel="stylesheet">
-<link rel="stylesheet" href="styles.css?v=202611092354"><link rel="stylesheet" href="v3.css?v=202611092354">
+<link rel="stylesheet" href="styles.css?v=202611100018"><link rel="stylesheet" href="v3.css?v=202611100018">
 </head><body>
 <a class="skip" href="#story">Skip to content</a>
 <div class="progress" id="progress"></div>
@@ -54,5 +54,5 @@
 <footer class="site-footer"><div class="wrap"><span data-ui="footer"></span><span class="mono">© <span id="year"></span> amirmaya.com</span></div></footer>
 </main>
 <div class="lightbox" id="lightbox"><img alt=""><button aria-label="Close">×</button></div>
-<script src="content.js?v=202611092354"></script><script src="brain.js?v=202611092354"></script><script src="v3.js?v=202611092354"></script><script src="counter.js?v=202611092354" defer></script>
+<script src="content.js?v=202611100018"></script><script src="brain.js?v=202611100018"></script><script src="v3.js?v=202611100018"></script><script src="counter.js?v=202611100018" defer></script>
 </body></html>

diff --git a/brain.js b/brain.js
@@ -110,7 +110,7 @@
   /* Rest fit: the brain rotates continuously, so size it to the largest footprint over a full turn (points + neuron boxes),
      then centre that footprint in the stage, leaving room for the HUD strip at the top and the legend at the bottom. */
   function restFit(w, h) {
-    const PAD = { top: 44, bottom: 62, side: 10 }, NB = { x: 68, yTop: 38, yBot: 74 }; // stage margins (HUD / legend), neuron box around its anchor
+    const narrow = innerWidth <= 620, PAD = narrow ? { top: 46, bottom: 40, side: 8 } : { top: 44, bottom: 62, side: 10 }, NB = narrow ? { x: 26, yTop: 26, yBot: 26 } : { x: 68, yTop: 38, yBot: 74 }; // stage margins (HUD / legend), neuron box around its anchor
     let xa = 0, ya = 0, yaN = 0, xp = 0, yp = 0, ypN = 0;                             // unit extents (symmetric in x after the sweep)
     const samp = pts.filter((_, i) => i % 7 === 0);
     for (let ry = -.78; ry <= .1; ry += .08) for (const rx of [-.05, .12, .3]) {        // idle sway ±.22 + pointer ±.15 around -.35
@@ -161,6 +161,7 @@
 
   /* ---- neurons ---- */
   function buildNeurons() {
+    const mk = $("#mkey"); if (mk) mk.innerHTML = C().stops.map((s, i) => `<span><b>${String(i + 1).padStart(2, "0")}</b> ${esc(s.name)}</span>`).join("");
     $("#neurons").innerHTML = C().stops.map((s, i) => `<a class="neuron" data-i="${i}" href="#${s.id}"><span class="disc"><img src="assets/logos/${s.logo}" alt="${esc(s.name)}"></span><span class="cnt">${String(i + 1).padStart(2, "0")}</span><span class="lbl"><b>${esc(s.name)}</b><span>${esc(s.years)}</span></span></a>`).join("");
     const tip = $("#tip");
     $$(".neuron").forEach(el => {

diff --git a/v3.css b/v3.css
@@ -224,3 +224,17 @@ body.gal-open{overflow:hidden}
 /* the stimulus probe follows the pointer over the whole page */
 .probe{position:fixed;inset:0;width:100%;height:100%;pointer-events:none;z-index:300;mix-blend-mode:screen}
 @media (pointer:coarse){.probe{display:none}}
+/* tool cards: screenshot on top, then the story of the tool */
+.tool{grid-template-columns:1fr}.tool .shot{min-height:0;aspect-ratio:16/9;border-right:0;border-bottom:1px solid var(--line)}.tool .txt{padding:22px 24px 24px}.tool .txt p{font-size:15px;color:var(--ink2)}
+.tbul{margin:12px 0 0;display:grid;gap:8px}.tbul li{font-size:13.5px;line-height:1.55;color:var(--ink2)}
+.edu-item p:empty{display:none}
+/* mobile key: the five stops listed under the brain, since labels do not fit next to the neurons on a phone */
+.mkey{display:none}
+@media (max-width:620px){
+  .neuron .lbl{display:none}.neuron .disc{width:44px;height:44px}.neuron .cnt{min-width:18px;height:18px;font-size:9px;right:-6px;top:-6px}
+  .legend{display:none}.mkey{display:flex;flex-wrap:wrap;gap:4px 12px;position:absolute;left:14px;right:14px;bottom:10px;font:500 10px var(--mono);letter-spacing:.06em;text-transform:uppercase;color:var(--muted)}.mkey b{color:var(--accent);margin-right:2px}
+  .hud>*{padding:5px 8px;gap:4px}.hud .dstat b{font-size:12px}.hud .dstat span{font-size:8.5px}
+  .section{padding-top:64px}#story .wrap{padding-top:64px}.section-title{font-size:30px}.section-intro{font-size:15px}
+  .duty-facts div:nth-child(n+4){display:none}.photo{width:52px;height:52px}
+  .stopsec .main{padding:16px}.stopsec h2{font-size:22px}.stopsec .lead{font-size:16px}.tool .txt{padding:16px}
+}

diff --git a/legacy.html b/legacy.html
@@ -10,7 +10,7 @@
 <link rel="icon" href="assets/favicon.png" type="image/png">
 <link rel="preconnect" href="https://fonts.googleapis.com"><link rel="preconnect" href="https://fonts.gstatic.com" crossorigin>
 <link href="https://fonts.googleapis.com/css2?family=Archivo:wght@400;500;600;700;800;900&family=IBM+Plex+Mono:wght@400;500;600&display=swap" rel="stylesheet">
-<link rel="stylesheet" href="styles.css?v=202611092354">
+<link rel="stylesheet" href="styles.css?v=202611100018">
 </head>
 <body>
 <div class="progress" id="progress"></div>
@@ -98,6 +98,6 @@
 </main>
 
 <div class="lightbox" id="lightbox"><img alt=""><button aria-label="Close">×</button></div>
-<script src="content.js?v=202611092354"></script><script src="app.js?v=202611092354"></script><script src="counter.js?v=202611092354" defer></script>
+<script src="content.js?v=202611100018"></script><script src="app.js?v=202611100018"></script><script src="counter.js?v=202611100018" defer></script>
 </body>
 </html>
